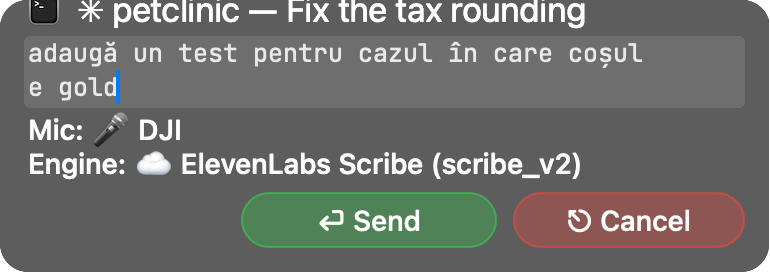
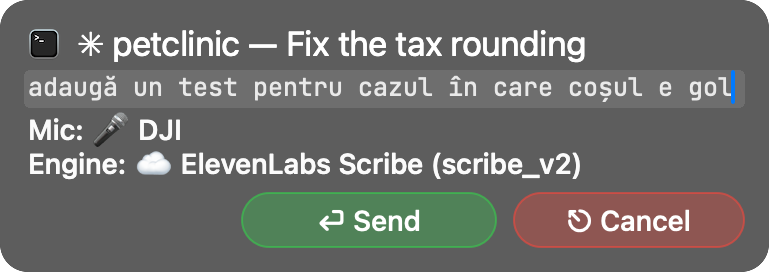
📋 The prompt panel sets copied text apart, like a highlight
[copied: "…"] was not in the panel's token pattern, so a copy ran on as
plain words, indistinguishable from what he said. It is now its own
indented teal paragraph, as [selected: …] is. A copied image was already
drawn under its [📸N 📋 copied] caption; shot prompt-copied shows both.

diff --git a/docs/overlay-states.html b/docs/overlay-states.html
@@ -100,7 +100,7 @@
 <header class="page">
   <h1>Every state of the overlay</h1>
   <p class="sub">
-    All 63 states the Walkie&nbsp;Talkie chip and panel can be in — what each one
+    All 64 states the Walkie&nbsp;Talkie chip and panel can be in — what each one
     is, and the moment it is on screen. The pictures are the real views drawing
     themselves, not mockups.
   </p>
@@ -693,6 +693,16 @@
         <p class="note">2026-10-07, Victor: the panel must show <em>where</em> each thing landed, to check the annotation. A picture token ends its paragraph, captions the picture drawn under it — the ✂ cut-out, or the frame — and the words carry on below. A highlight or a picked element is its own indented paragraph. Frames the words did not take (here the automatic one) stay in the strip.</p>
         <code class="slug">prompt-inline</code>
       </section>
+      <section class="card" id="prompt-copied">
+        <header>
+          <h3>The prompt, with what he copied where he copied it</h3>
+          <div class="tags"><span class="tag tag-panel" title="top-left of the screen, blurred, full opacity, ✕ on hover">panel</span><span class="tag">alpha 1.00</span><span class="tag">749×411 pt</span></div>
+        </header>
+        <div class="shot"><img src="states/prompt-copied.png" width="749" height="411" style="opacity:1" alt="The prompt, with what he copied where he copied it"></div>
+        <p class="when">Auto-attach › Everything I Copy: text and an image copied while the prompt recorded.</p>
+        <p class="note">2026-10-17, Victor: <em>&quot;also display the copied text or image from clipboard in the preview&quot;</em>. A copied image is a numbered picture like any other (<code>[📸N 📋 copied]</code>), drawn under its caption; copied text is its own indented paragraph, like a highlight — it used to run on as plain words, indistinguishable from what he said.</p>
+        <code class="slug">prompt-copied</code>
+      </section>
       <section class="card" id="prompt-area-context">
         <header>
           <h3>The prompt, a ✂ area and the screen it was cut from</h3>
@@ -785,7 +795,7 @@
       </section>
     </div>
 <footer>
-  Generated from <code>OverlayStates.swift</code> · repo at 6a9462d · 16 Oct 2026 · built 16 Oct 2026, 21:43
+  Generated from <code>OverlayStates.swift</code> · repo at 0b46428 · 17 Oct 2026 · built 17 Oct 2026, 07:48
 </footer>
 <button class="toggle" onclick="document.body.classList.toggle('light')">Backdrop: dark / light</button>
 </body>

diff --git a/Sources/WalkieTalkie/RelayWindow.swift b/Sources/WalkieTalkie/RelayWindow.swift
@@ -2994,10 +2994,10 @@ private let heardLabel = NSTextField(labelWithString: "")
             + promptFilms.map { (path: $0.poster, stamp: "", film: $0.seconds) }
     }
 
-    /// `[📸N…]`, `[selected: "…"…]`, `[chrome-selection-N: …]`, `[🎦N…]` — the
-    /// tokens `ShotMarker.Token` writes into the words.
+    /// `[📸N…]`, `[selected: "…"…]`, `[copied: "…"…]`, `[chrome-selection-N: …]`,
+    /// `[🎦N…]` — the tokens `ShotMarker.Token` writes into the words.
     private static let tokenPattern = try? NSRegularExpression(
-        pattern: #"\[(?:📸(\d+)[^\]\n]*|selected: "[\s\S]*?"(?: from app [^\]\n]*)?|chrome-selection-\d+:[^\]\n]*|🎦\d+[^\]\n]*)\]"#)
+        pattern: #"\[(?:📸(\d+)[^\]\n]*|(?:selected|copied): "[\s\S]*?"(?: from app [^\]\n]*)?|chrome-selection-\d+:[^\]\n]*|🎦\d+[^\]\n]*)\]"#)
 
     /// The shot numbers whose token is in `text` and which have a picture to draw.
     private func inlineShotNumbers(in text: String) -> [Int] {
@@ -3025,8 +3025,9 @@ private let heardLabel = NSTextField(labelWithString: "")
     /// - A `[📸N…]` token with a picture ends the paragraph: the token on a line
     ///   of its own as the picture's caption, the picture under it, left-aligned,
     ///   then the words carry on in a new paragraph.
-    /// - A highlight (`[selected: …]`) and a picked element (`[chrome-selection-N: …]`)
-    ///   are their own indented paragraph, in the token colour.
+    /// - A highlight (`[selected: …]`), a copy (`[copied: …]`, 2026-10-17) and a
+    ///   picked element (`[chrome-selection-N: …]`) are their own indented
+    ///   paragraph, in the token colour.
     /// - Every other token is coloured where it stands.
     ///
     /// The token text is kept verbatim — the panel is where he checks *where*
@@ -3086,7 +3087,7 @@ private let heardLabel = NSTextField(labelWithString: "")
                 pic.addAttribute(.paragraphStyle, value: picture, range: NSRange(location: 0, length: pic.length))
                 out.append(pic)
                 startParagraph = true
-            } else if raw.hasPrefix("[selected:") || raw.hasPrefix("[chrome-selection-") {
+            } else if raw.hasPrefix("[selected:") || raw.hasPrefix("[copied:") || raw.hasPrefix("[chrome-selection-") {
                 breakParagraph()
                 var attrs = token
                 attrs[.paragraphStyle] = block

diff --git a/Sources/WalkieTalkie/OverlayStates.swift b/Sources/WalkieTalkie/OverlayStates.swift
@@ -575,6 +575,20 @@ enum OverlayStates {
                                  inlineShots: [1: frames[1], 2: frames[2]])
             },
 
+            Shot(slug: "prompt-copied", group: "The held prompt", title: "The prompt, with what he copied where he copied it",
+                 when: "Auto-attach › Everything I Copy: text and an image copied while the prompt recorded.",
+                 note: "2026-10-17, Victor: *\"also display the copied text or image from clipboard in the preview\"*. A copied image is a numbered picture like any other (`[📸N 📋 copied]`), drawn under its caption; copied text is its own indented paragraph, like a highlight — it used to run on as plain words, indistinguishable from what he said.",
+                 shape: "panel", alpha: 1.0) { o in
+                o.setBound(label: "petclinic", folder: "petclinic@main", title: "✳ petclinic — Fix the tax rounding", icon: terminal)
+                let frames = mockShots(2)
+                let said = "the build fails with this "
+                    + ShotMarker.Token.copied("error: cannot find symbol TaxRule in OrderService.java:42", app: "Terminal")
+                    + " and the icon should look like this [📸1 📋 copied] — fix both."
+                o.showSentPrompt(said, hold: 6, shots: frames, stamps: ["", "0:07"],
+                                 words: said, heard: heard,
+                                 inlineShots: [1: frames[1]])
+            },
+
             Shot(slug: "prompt-area-context", group: "The held prompt", title: "The prompt, a ✂ area and the screen it was cut from",
                  when: "A wheel-drag area whose token is in the words.",
                  note: "2026-10-15, Victor: after the cut-out, the whole screen that goes with it — greyed outside the box, the box lit and ringed red — so it is plain that the entire screen is sent too. Drawn by `AreaContext`, never written to disk.",

diff --git a/.claude/rules/overlay-chip.md b/.claude/rules/overlay-chip.md
@@ -434,8 +434,9 @@ yields to `--label`).
   `RelayWindow.richPrompt`: a `[📸N…]` token ends its paragraph, stays verbatim as the caption (teal,
   monospaced 0.7×), and its picture is drawn under it left-aligned (`NSTextAttachment`, ≤ 220 pt tall,
   ≤ 30 % of the panel's width — `inlineShotMaxWidthShare`, 2026-10-07) — the ✂ cut-out, else the 800 px frame (`AppDelegate` hands `inlineShots:
-  [N: path]`). `[selected: …]` and `[chrome-selection-N: …]` are their own indented paragraph; other
-  tokens are coloured in place. A frame drawn in the words leaves the strip (`stripShots`, matched by **shot number** since
+  [N: path]`). `[selected: …]`, `[copied: …]` (2026-10-17 — it ran on as plain words until then;
+  a copied image is already a `[📸N 📋 copied]` picture) and `[chrome-selection-N: …]` are their own
+  indented paragraph; other tokens are coloured in place. Shot `prompt-copied`. A frame drawn in the words leaves the strip (`stripShots`, matched by **shot number** since
   2026-10-07 — by path the cut-out never equalled the frame, so every inlined picture came back in the strip); the
   automatic 📸0 is not in the preview's words, so it stays there. Editing swaps back to the plain
   words. Shot `prompt-inline`.
